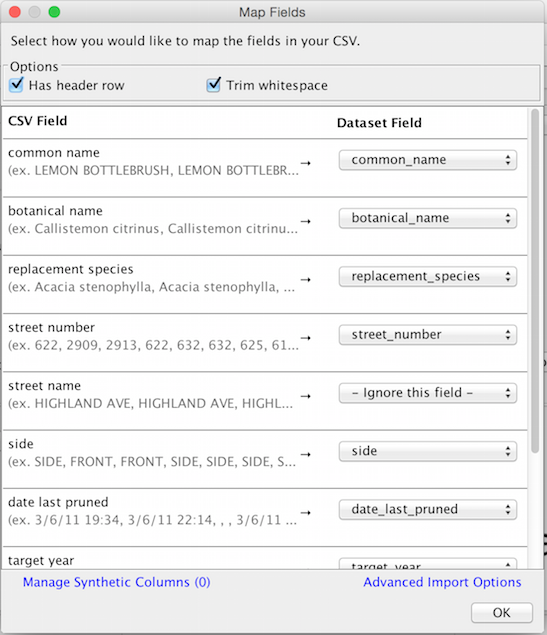
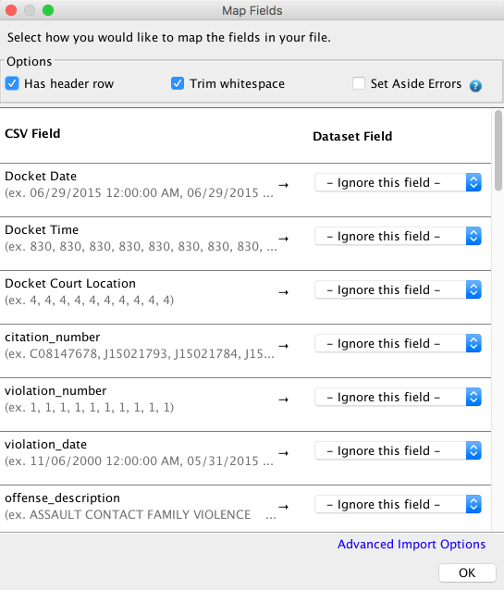
update to datasync 1.7 documentation

Changed region(s): [[0.0, 0.0, 1.0, 1.0], [0.5357, 0.6102, 0.5655, 0.6407]]

diff --git a/_includes/sidebar.html b/_includes/sidebar.html
@@ -15,6 +15,7 @@
 <li><a href="{{ site.root }}/resources/faq-common-problems.html">FAQ / Common Problems</a></li>
 <li><a href="{{ site.root }}/resources/network-considerations.html">Network Considerations</a></li>
 <li><a href="{{ site.root }}/resources/conditions-restrictions.html">Data Conditions &amp; Restrictions</a></li>
+<li><a href="{{ site.root }}/guides/using-map-fields-dialog.html"> Using the Map Fields Dialog</a></li>
 
 <li class="nav-header dropdown-header">Developer Guides</li>
 <li><a href="{{ site.root }}/guides/datasync-library-sdk.html">DataSync Library/SDK (Java)</a></li>

diff --git a/guides/using-map-fields-dialog.md b/guides/using-map-fields-dialog.md
@@ -1,4 +1,4 @@
----
+	---
 layout: with-sidebar
 title: Using the Map Fields Dialog
 bodyclass: homepage
@@ -15,6 +15,7 @@ The Map Fields dialog controls how the items in your CSV map to fields in your d
 
 As you change options in the dialog, DataSync will provide immediate, real time feedback around how it views your CSV.  For example, toggling the "has header row" option in the UI will immediately reflect the fact that the first row in the CSV will be imported as data, rather than as a header.  
 
+
 ![Header row before and after](/datasync/images/header_row_before_after.png)
 
 Similarly, changing the "separator" under advanced options will reflect the fact that there are new columns which you can map.
@@ -28,6 +29,15 @@ DataSync will also automatically validate that your configuration is correct *be
 Once validated, this dialog generates the same [control file]({{ site.root }}/resources/control-config.html) that you may have used to load data via the command line.  Because of this, any saved job can also be run as a scheduled job in headless mode. 
 
 While the default settings will typically be sufficient, every once in a while you will need to take additional steps load your CSV.  The following sections detail how you can use the more advanced features of this UI to successfully upload your CSV. 
+
+###Selecting Set Aside Errors
+![Selecting Set Aside Errors](/datasync/images/set_aside_error.png)
+
+If you're using DataSync to update your data and you selected "Set Aside Errors" from the user interface (or indicated this in your control file), you'll see another status - "Completed with Problems".
+
+For jobs that have "Completed with Problems", navigating to (yourdomain)/admin/jobs brings you to a page with more information on when the job failed and more descriptive details about the failure. This page will also have a download link for a CSV of the specific rows that failed.
+
+![Job Detail](/datasync/images/job_detail.png)
 
 ### Mapping items in the CSV to fields in the dataset
 

diff --git a/guides/setup-standard-job.md b/guides/setup-standard-job.md
@@ -54,7 +54,7 @@ Click the "Map fields" button to launch the screen where you'll map the items in
 
 You can use this dialog to map the columns in your CSV (shown with previews in the left column) to the fields in your dataset (selected with the dropdowns) on the right hand side.  This dialog will automatically attempt to detect the names in your CSV and align them with the names of your dataset.  Because of this, most of the time you'll simply need to double check the values and hit "OK."  If that's not the case though, you can use the boxes on the right to select the dataset field names and then hit OK.  The dialog will check the values of the CSV to make sure that they are valid and if they are will generate a [control file]({{ site.root }}/resources/control-file-config.html) automatically for you under the covers.  If not, you'll quickly get an error message with instructions as to how to fix the error. 
 
-For more information on the advanced capabilities of this dialog, please see the [Using the Map Fields Dialog](/guides/using-map-fields-dialog.html)
+For more information on the advanced capabilities of this dialog, please see the [Using the Map Fields Dialog](https://socrata.github.io/datasync/guides/using-map-fields-dialog.html)
 
 ### Step 5: Run the job and optionally save it
 You can run your job by clicking the “Run Job Now” button. A loading spinner will appear as the job runs.  The length of the job will depend on the size of the CSV / TSV uploaded. Once complete, a popup will indicate if the job was successful or notify you of any errors.
